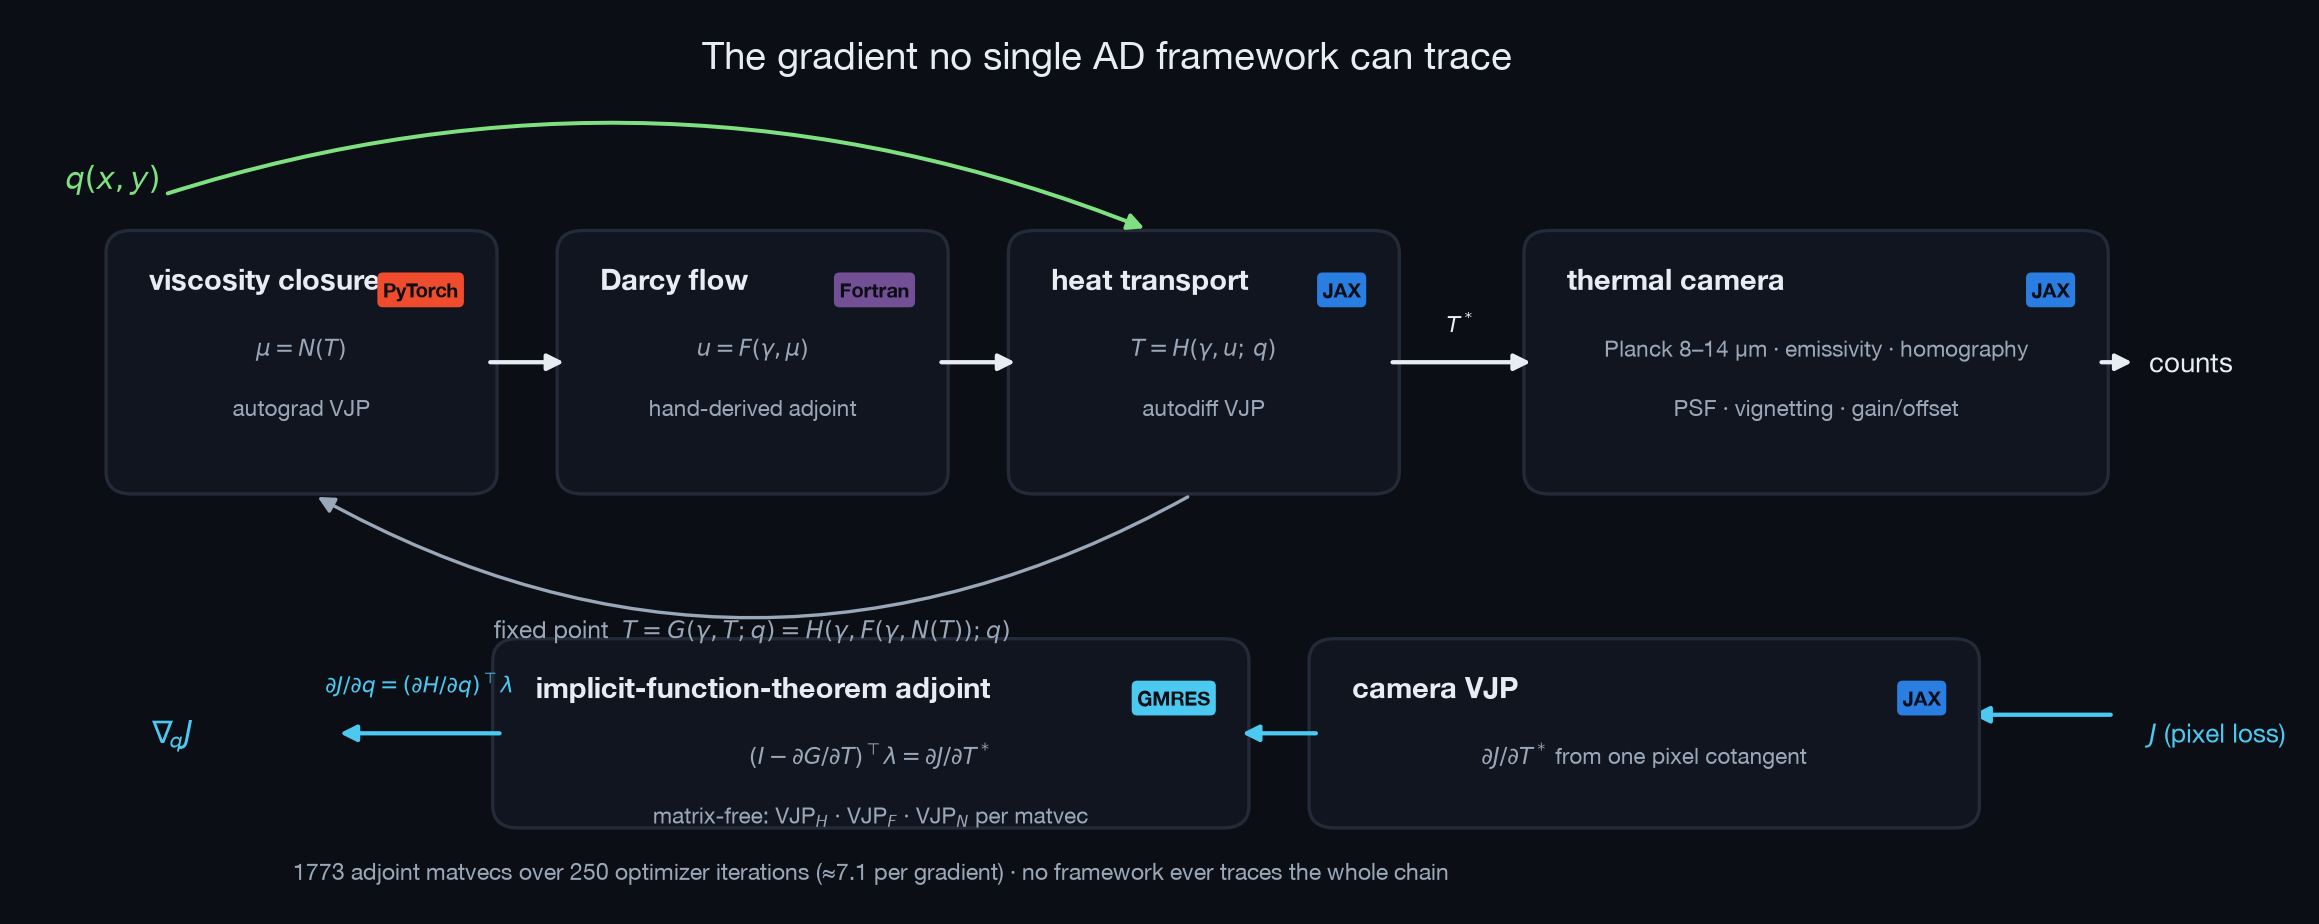
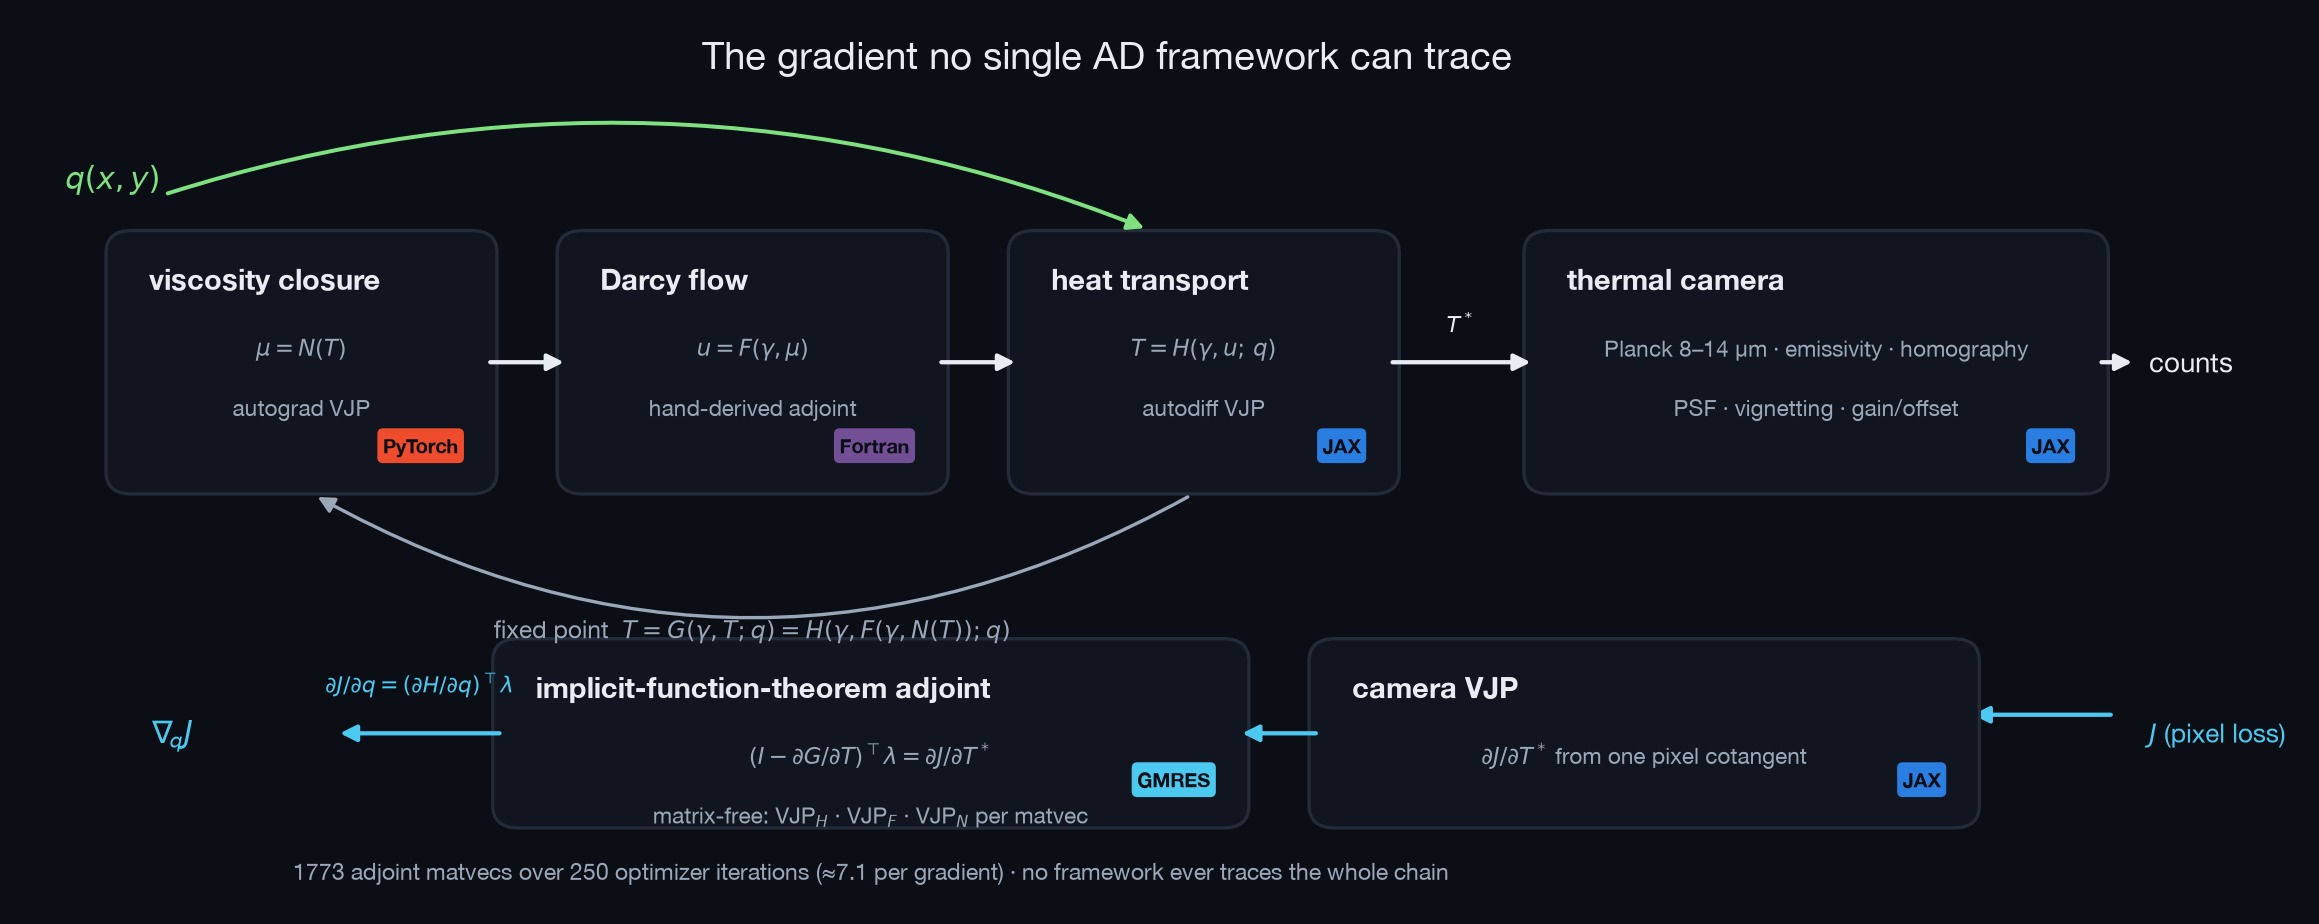
style(figures): move framework badges off box titles, fix epsilon glyph

diff --git a/scripts/make_figures.py b/scripts/make_figures.py
@@ -161,7 +161,7 @@ def make_chain(results, out: Path) -> None:
                      fc=PANEL, ec=GRID, lw=1.1))
         ax.text(x + 1.4, y + h - 2.6, title, ha="left", fontsize=9.5,
                 color=INK, weight="bold")
-        ax.text(x + w - 1.2, y + h - 2.6, badge, ha="right", va="center",
+        ax.text(x + w - 1.2, y + 2.0, badge, ha="right", va="center",
                 fontsize=6.5, color="#0b0e14", weight="bold",
                 bbox=dict(boxstyle="round,pad=0.28", fc=badge_color, ec="none"))
         for i, ln in enumerate(lines):
